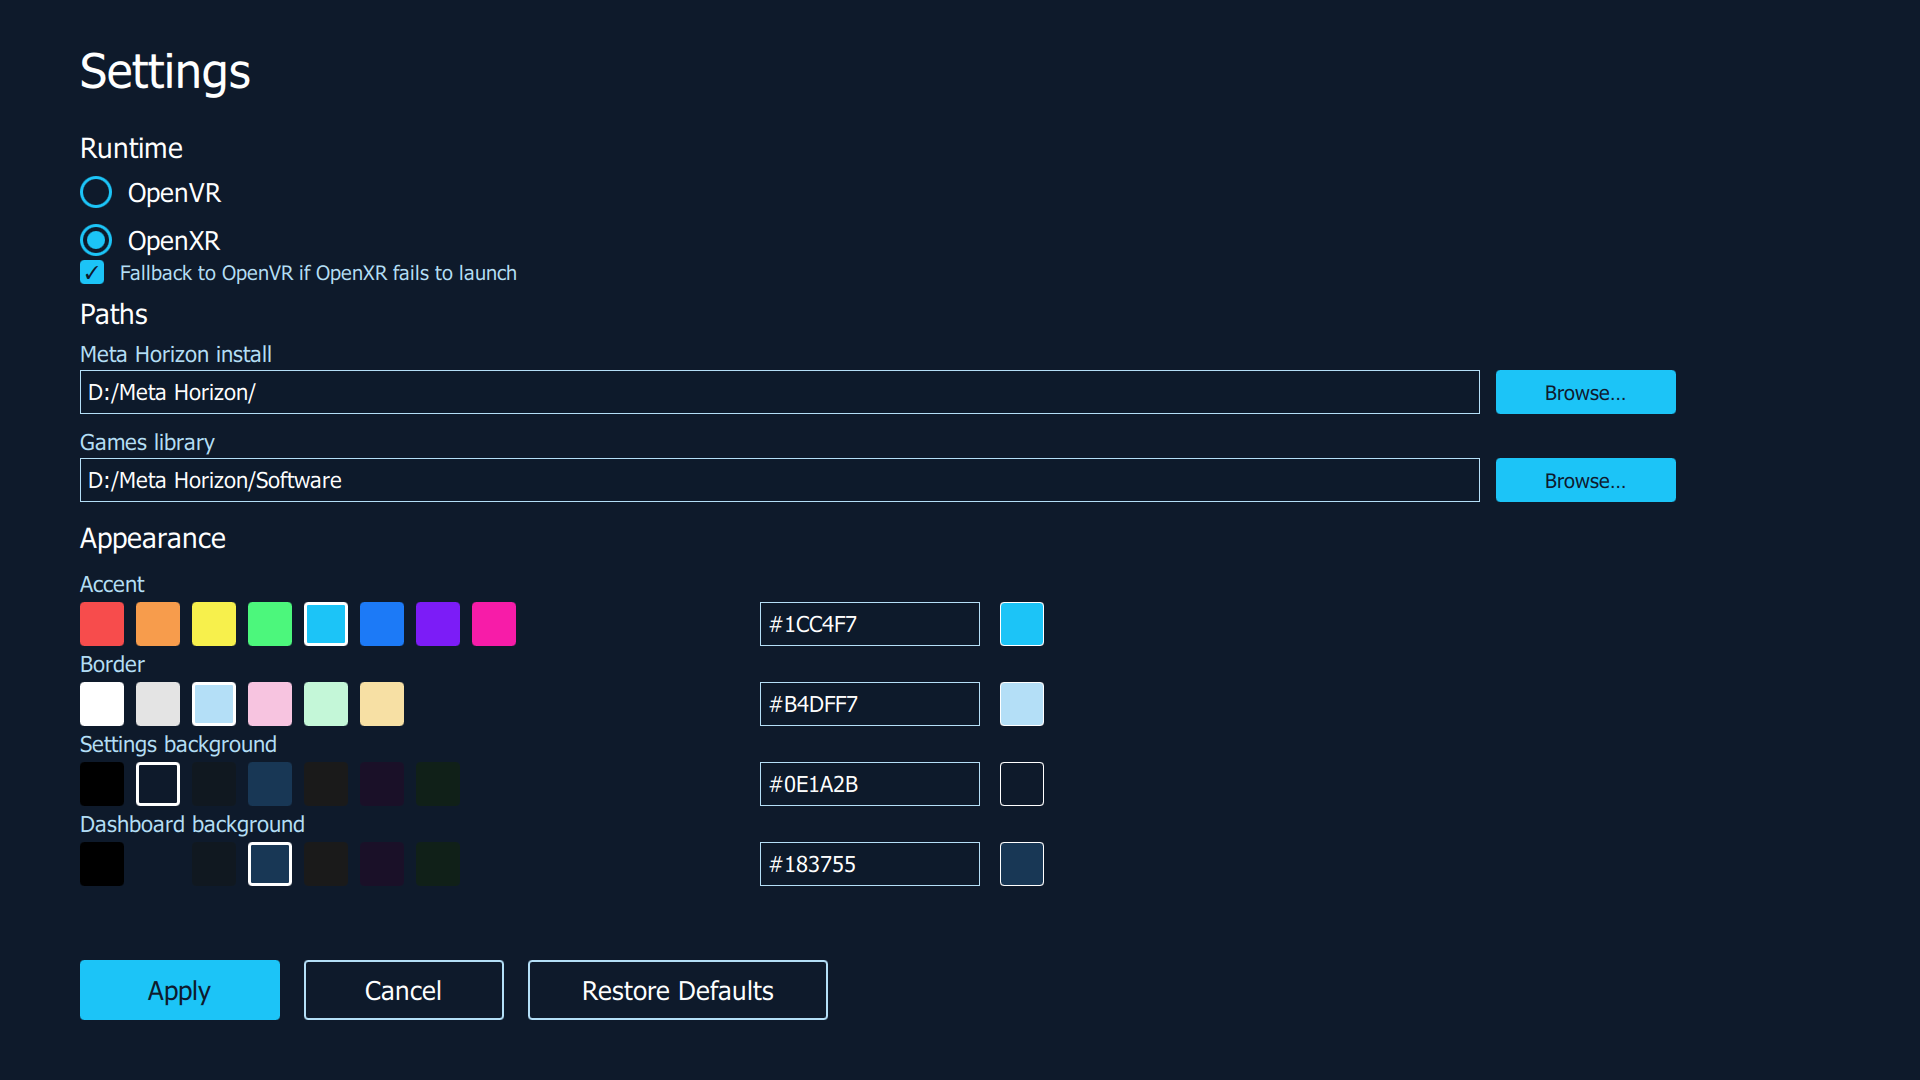
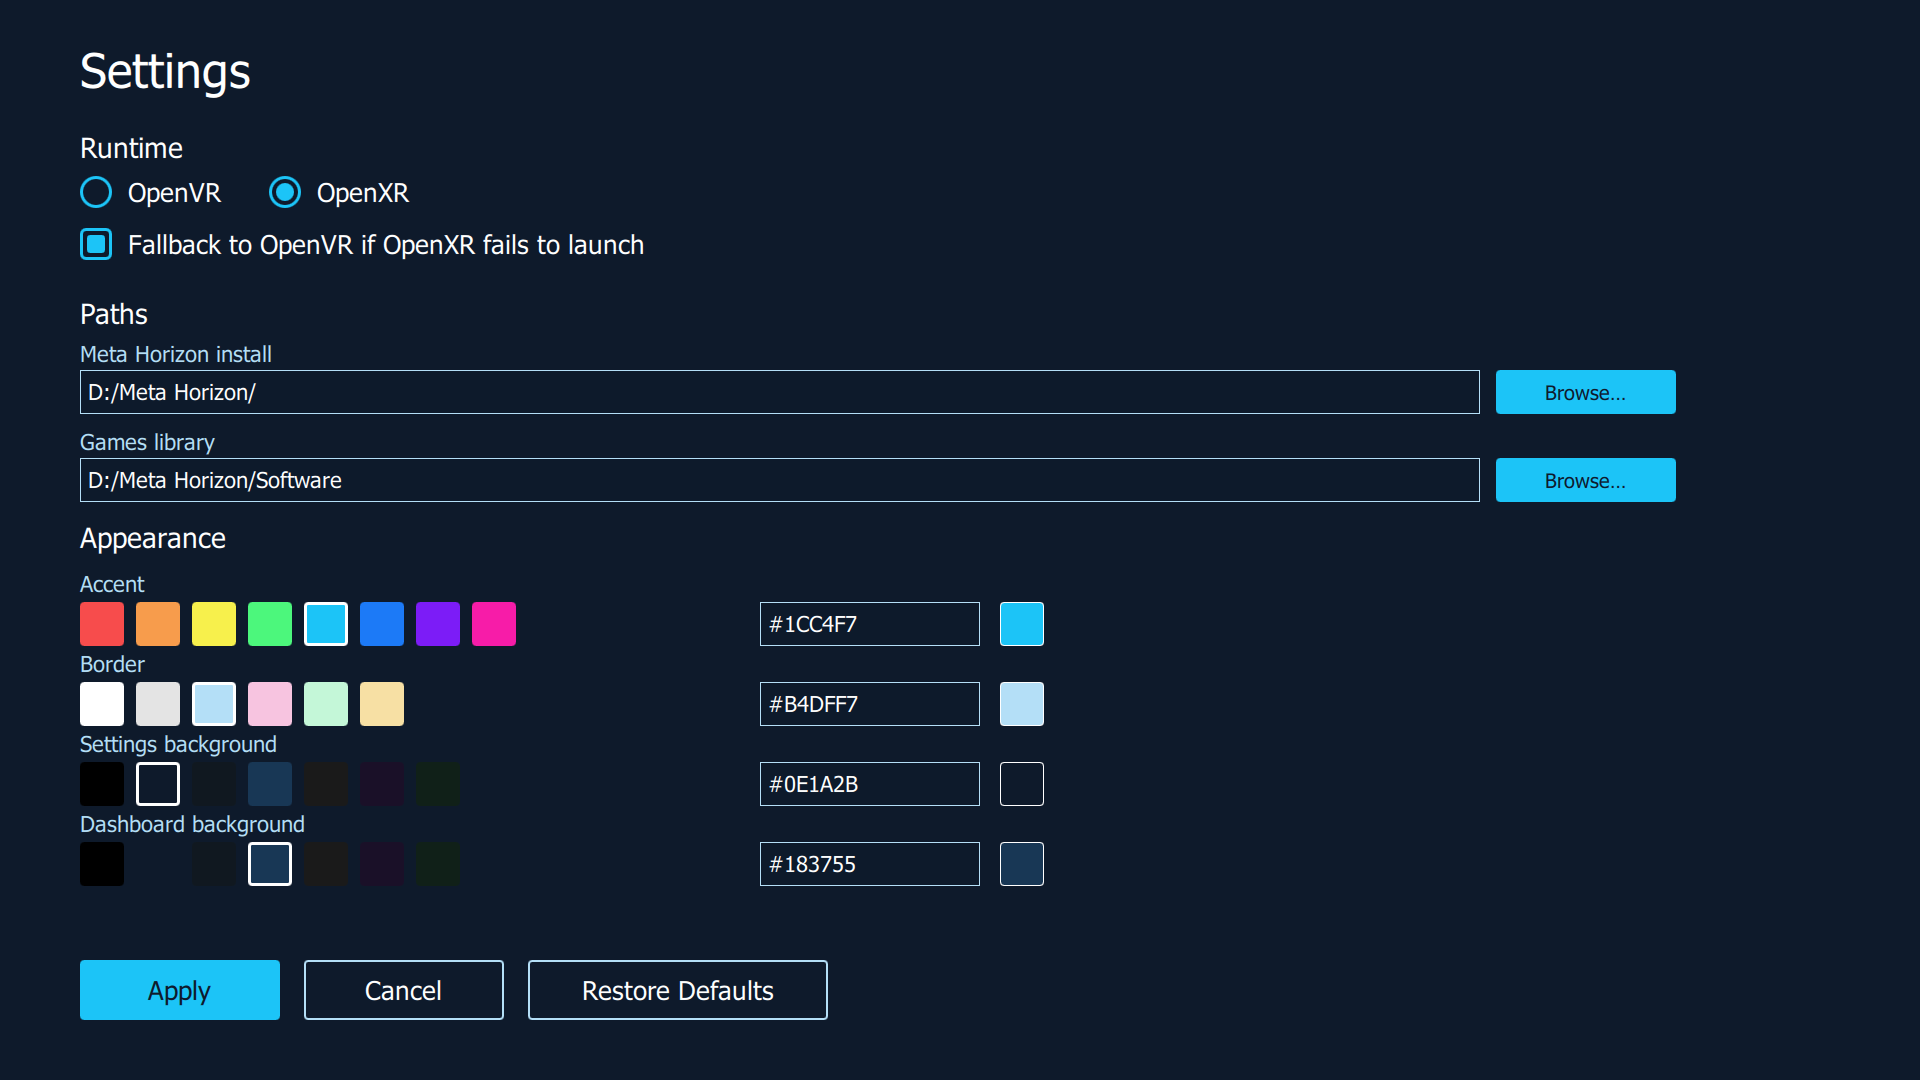
style(ui): align fallback toggle with native app dimensions, margins, and typography
Align checkbox box size (32x32), accent border (3px), inner indicator (18x18),
textPrimary color, and font size (26px) with neighboring Runtime options.
Place OpenVR and OpenXR side by side for balanced layout.
Update PR documentation screenshot.

Changed region(s): [[0.0312, 0.2139, 0.3438, 0.275], [0.125, 0.1528, 0.2188, 0.1833]]

diff --git a/ReviveOverlay/Settings.qml b/ReviveOverlay/Settings.qml
@@ -103,58 +103,64 @@ Rectangle {
     }
 
     Row {
-        x: 80; y: 176; spacing: 16
-        Rectangle {
-            width: 32; height: 32; radius: 16
-            border.color: previewAccent; border.width: 3; color: "transparent"
+        x: 80; y: 176; spacing: 48
+        Row {
+            spacing: 16
             Rectangle {
-                width: 18; height: 18; radius: 9
-                anchors.centerIn: parent
-                color: previewAccent
-                visible: previewRuntime === "OpenVR"
+                width: 32; height: 32; radius: 16
+                border.color: previewAccent; border.width: 3; color: "transparent"
+                Rectangle {
+                    width: 18; height: 18; radius: 9
+                    anchors.centerIn: parent
+                    color: previewAccent
+                    visible: previewRuntime === "OpenVR"
+                }
+                MouseArea { anchors.fill: parent; onClicked: previewRuntime = "OpenVR" }
             }
-            MouseArea { anchors.fill: parent; onClicked: previewRuntime = "OpenVR" }
+            Text {
+                text: "OpenVR"; color: settingsPage.textPrimary; font.pixelSize: 26
+                anchors.verticalCenter: parent.verticalCenter
+                MouseArea { anchors.fill: parent; onClicked: previewRuntime = "OpenVR" }
+            }
         }
-        Text {
-            text: "OpenVR"; color: settingsPage.textPrimary; font.pixelSize: 26
-            anchors.verticalCenter: parent.verticalCenter
+        Row {
+            spacing: 16
+            Rectangle {
+                width: 32; height: 32; radius: 16
+                border.color: previewAccent; border.width: 3; color: "transparent"
+                Rectangle {
+                    width: 18; height: 18; radius: 9
+                    anchors.centerIn: parent
+                    color: previewAccent
+                    visible: previewRuntime === "OpenXR"
+                }
+                MouseArea { anchors.fill: parent; onClicked: previewRuntime = "OpenXR" }
+            }
+            Text {
+                text: "OpenXR"; color: settingsPage.textPrimary; font.pixelSize: 26
+                anchors.verticalCenter: parent.verticalCenter
+                MouseArea { anchors.fill: parent; onClicked: previewRuntime = "OpenXR" }
+            }
         }
     }
 
     Row {
-        x: 80; y: 224; spacing: 16
-        Rectangle {
-            width: 32; height: 32; radius: 16
-            border.color: previewAccent; border.width: 3; color: "transparent"
-            Rectangle {
-                width: 18; height: 18; radius: 9
-                anchors.centerIn: parent
-                color: previewAccent
-                visible: previewRuntime === "OpenXR"
-            }
-            MouseArea { anchors.fill: parent; onClicked: previewRuntime = "OpenXR" }
-        }
-        Text {
-            text: "OpenXR"; color: settingsPage.textPrimary; font.pixelSize: 26
-            anchors.verticalCenter: parent.verticalCenter
-        }
-    }
-
-    Row {
-        x: 80; y: 260; spacing: 16
+        x: 80; y: 228; spacing: 16
         visible: previewRuntime === "OpenXR"
         Rectangle {
-            width: 24; height: 24; radius: 4
-            border.color: previewAccent; border.width: 2; color: previewFallback ? previewAccent : "transparent"
-            Text {
+            width: 32; height: 32; radius: 6
+            border.color: previewAccent; border.width: 3; color: "transparent"
+            Rectangle {
+                width: 18; height: 18; radius: 3
                 anchors.centerIn: parent
-                text: "✓"; color: "#0E1A2B"; font.pixelSize: 18; visible: previewFallback
+                color: previewAccent
+                visible: previewFallback
             }
             MouseArea { anchors.fill: parent; onClicked: previewFallback = !previewFallback }
         }
         Text {
             text: "Fallback to OpenVR if OpenXR fails to launch"
-            color: settingsPage.textSecondary; font.pixelSize: 20
+            color: settingsPage.textPrimary; font.pixelSize: 26
             anchors.verticalCenter: parent.verticalCenter
             MouseArea { anchors.fill: parent; onClicked: previewFallback = !previewFallback }
         }
